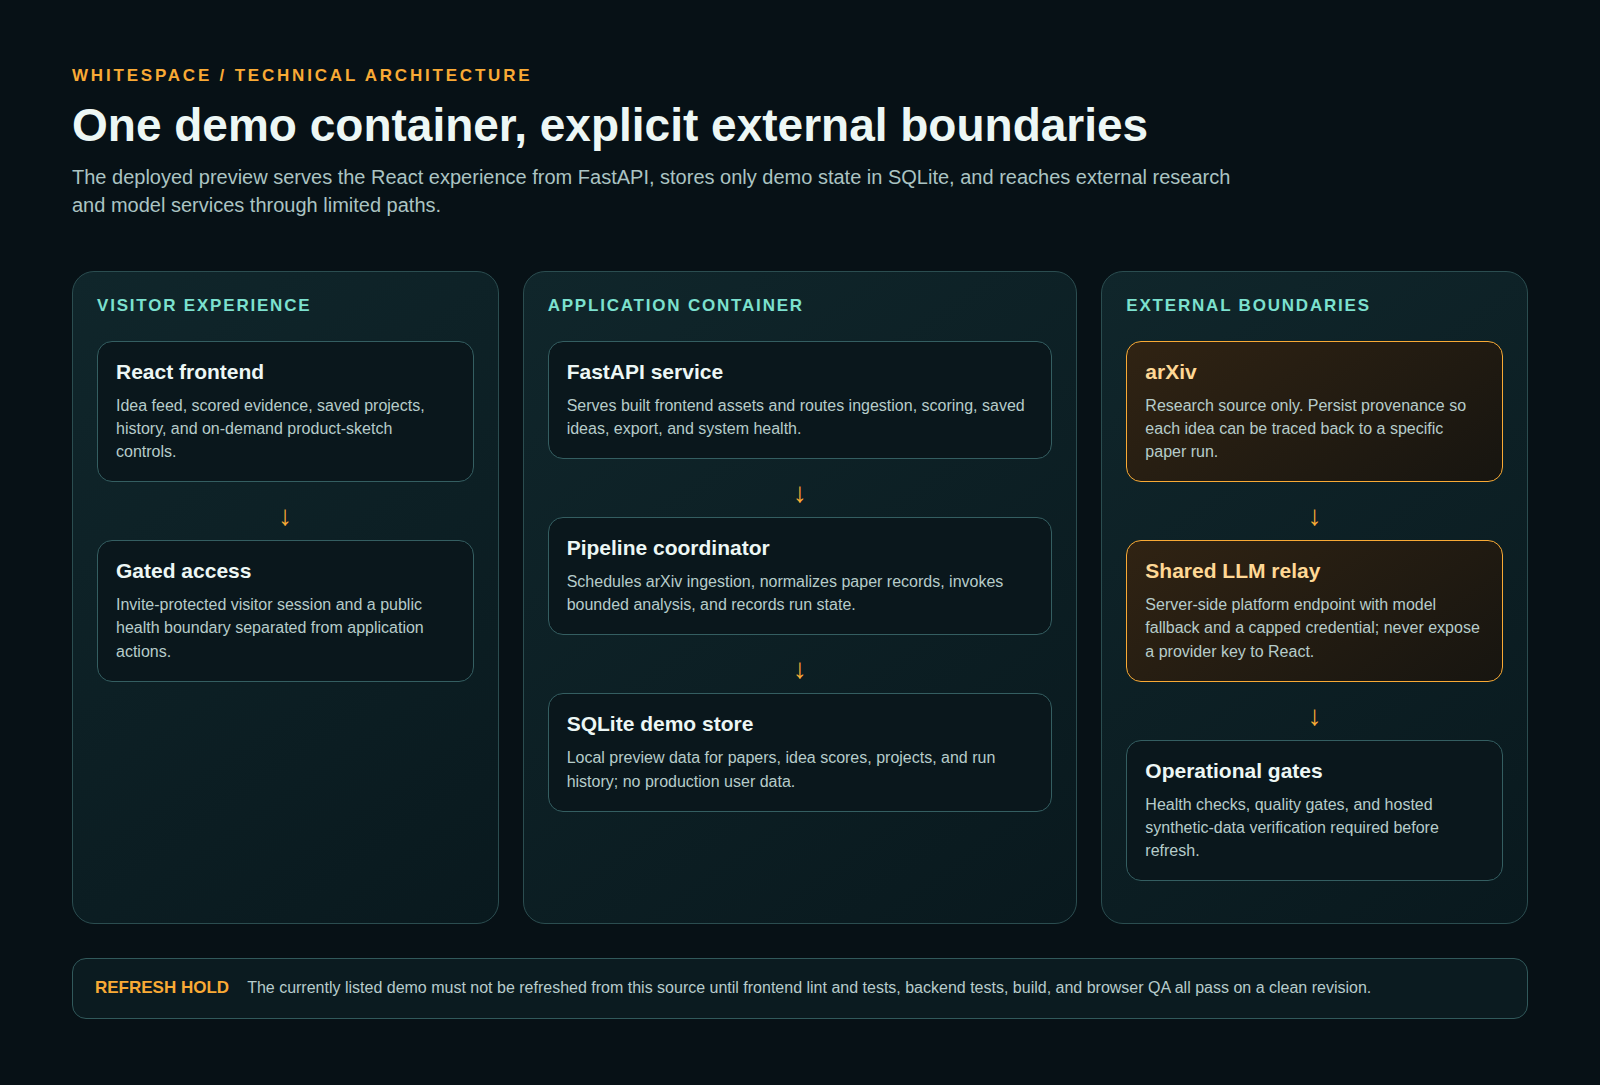
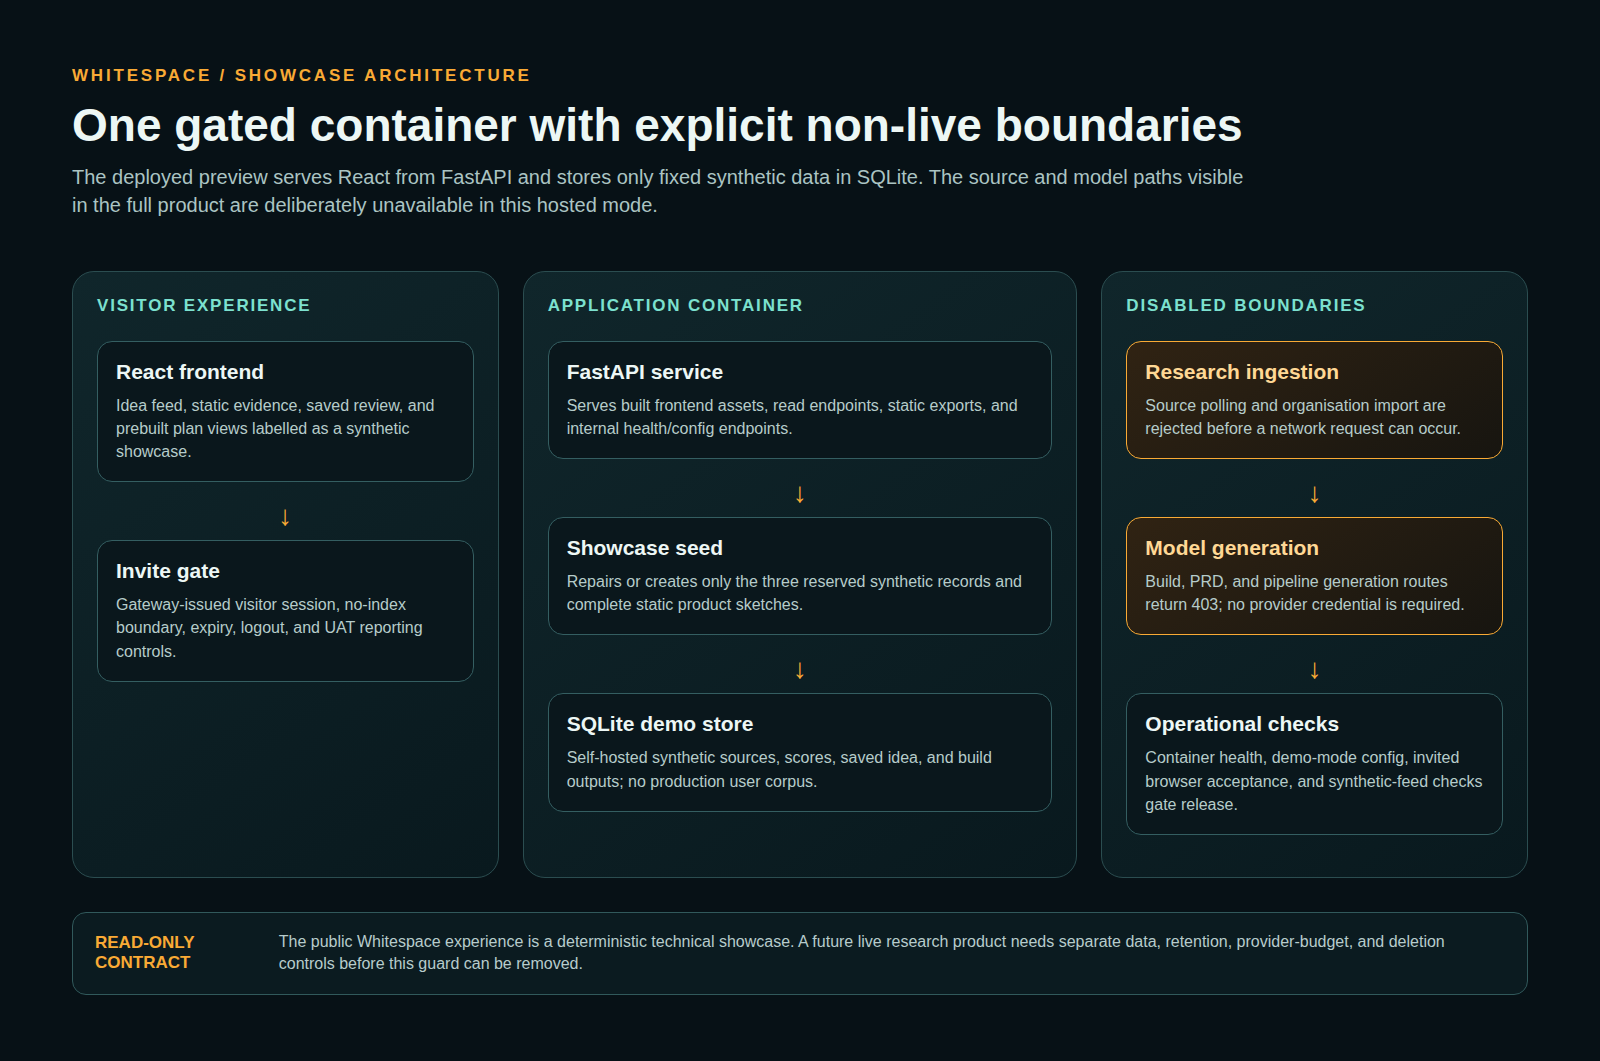
docs: align Whitespace page with showcase boundary

diff --git a/docs/project-page/whitespace-architecture-map.html b/docs/project-page/whitespace-architecture-map.html
@@ -1,1 +1,4 @@
-<!doctype html><html lang="en"><head><meta charset="utf-8"><title>Whitespace architecture</title><style>*{box-sizing:border-box}body{margin:0;width:1600px;min-height:1050px;background:#071116;color:#edf7f5;font-family:Inter,Arial,sans-serif}.canvas{padding:66px 72px}.eyebrow{font-size:17px;font-weight:800;color:#f9aa35;letter-spacing:2.8px}.title{font-size:46px;font-weight:800;margin:14px 0 12px;line-height:1.1}.intro{font-size:20px;color:#abc4c3;line-height:1.4;max-width:1190px}.layers{display:grid;grid-template-columns:1fr 1.3fr 1fr;gap:24px;margin-top:52px}.lane{border:1px solid #2b4d50;border-radius:22px;background:linear-gradient(145deg,#10262b,#09191e);padding:24px;min-height:590px}.lane h2{font-size:17px;letter-spacing:1.8px;color:#7ce1cf;margin:0 0 25px}.node{border:1px solid #345e61;background:#0a171c;border-radius:15px;padding:18px;margin-bottom:18px}.node strong{font-size:21px;display:block;margin-bottom:10px}.node p{margin:0;color:#b6ccca;font-size:16px;line-height:1.45}.accent{border-color:#f9aa35;background:linear-gradient(145deg,#302313,#171510)}.accent strong{color:#ffd895}.flow{color:#f9aa35;font-size:28px;text-align:center;margin:8px 0}.bar{display:flex;align-items:center;gap:18px;margin-top:34px;border:1px solid #31595b;border-radius:14px;padding:18px 22px;background:#0b1b20}.bar b{color:#f9aa35;font-size:17px}.bar p{margin:0;color:#b7cccc;font-size:16px;line-height:1.4}</style></head><body><main class="canvas"><div class="eyebrow">WHITESPACE / TECHNICAL ARCHITECTURE</div><div class="title">One demo container, explicit external boundaries</div><div class="intro">The deployed preview serves the React experience from FastAPI, stores only demo state in SQLite, and reaches external research and model services through limited paths.</div><section class="layers"><article class="lane"><h2>VISITOR EXPERIENCE</h2><div class="node"><strong>React frontend</strong><p>Idea feed, scored evidence, saved projects, history, and on-demand product-sketch controls.</p></div><div class="flow">↓</div><div class="node"><strong>Gated access</strong><p>Invite-protected visitor session and a public health boundary separated from application actions.</p></div></article><article class="lane"><h2>APPLICATION CONTAINER</h2><div class="node"><strong>FastAPI service</strong><p>Serves built frontend assets and routes ingestion, scoring, saved ideas, export, and system health.</p></div><div class="flow">↓</div><div class="node"><strong>Pipeline coordinator</strong><p>Schedules arXiv ingestion, normalizes paper records, invokes bounded analysis, and records run state.</p></div><div class="flow">↓</div><div class="node"><strong>SQLite demo store</strong><p>Local preview data for papers, idea scores, projects, and run history; no production user data.</p></div></article><article class="lane"><h2>EXTERNAL BOUNDARIES</h2><div class="node accent"><strong>arXiv</strong><p>Research source only. Persist provenance so each idea can be traced back to a specific paper run.</p></div><div class="flow">↓</div><div class="node accent"><strong>Shared LLM relay</strong><p>Server-side platform endpoint with model fallback and a capped credential; never expose a provider key to React.</p></div><div class="flow">↓</div><div class="node"><strong>Operational gates</strong><p>Health checks, quality gates, and hosted synthetic-data verification required before refresh.</p></div></article></section><div class="bar"><b>REFRESH HOLD</b><p>The currently listed demo must not be refreshed from this source until frontend lint and tests, backend tests, build, and browser QA all pass on a clean revision.</p></div></main></body></html>
+<!doctype html>
+<html lang="en"><head><meta charset="utf-8"><title>Whitespace showcase architecture</title><style>
+*{box-sizing:border-box}body{margin:0;width:1600px;min-height:1050px;background:#071116;color:#edf7f5;font-family:Inter,Arial,sans-serif}.canvas{padding:66px 72px}.eyebrow{font-size:17px;font-weight:800;color:#f9aa35;letter-spacing:2.8px}.title{font-size:46px;font-weight:800;margin:14px 0 12px;line-height:1.1}.intro{font-size:20px;color:#abc4c3;line-height:1.4;max-width:1190px}.layers{display:grid;grid-template-columns:1fr 1.3fr 1fr;gap:24px;margin-top:52px}.lane{border:1px solid #2b4d50;border-radius:22px;background:linear-gradient(145deg,#10262b,#09191e);padding:24px;min-height:590px}.lane h2{font-size:17px;letter-spacing:1.8px;color:#7ce1cf;margin:0 0 25px}.node{border:1px solid #345e61;background:#0a171c;border-radius:15px;padding:18px;margin-bottom:18px}.node strong{font-size:21px;display:block;margin-bottom:10px}.node p{margin:0;color:#b6ccca;font-size:16px;line-height:1.45}.accent{border-color:#f9aa35;background:linear-gradient(145deg,#302313,#171510)}.accent strong{color:#ffd895}.flow{color:#f9aa35;font-size:28px;text-align:center;margin:8px 0}.bar{display:flex;align-items:center;gap:18px;margin-top:34px;border:1px solid #31595b;border-radius:14px;padding:18px 22px;background:#0b1b20}.bar b{color:#f9aa35;font-size:17px}.bar p{margin:0;color:#b7cccc;font-size:16px;line-height:1.4}
+</style></head><body><main class="canvas"><div class="eyebrow">WHITESPACE / SHOWCASE ARCHITECTURE</div><div class="title">One gated container with explicit non-live boundaries</div><div class="intro">The deployed preview serves React from FastAPI and stores only fixed synthetic data in SQLite. The source and model paths visible in the full product are deliberately unavailable in this hosted mode.</div><section class="layers"><article class="lane"><h2>VISITOR EXPERIENCE</h2><div class="node"><strong>React frontend</strong><p>Idea feed, static evidence, saved review, and prebuilt plan views labelled as a synthetic showcase.</p></div><div class="flow">↓</div><div class="node"><strong>Invite gate</strong><p>Gateway-issued visitor session, no-index boundary, expiry, logout, and UAT reporting controls.</p></div></article><article class="lane"><h2>APPLICATION CONTAINER</h2><div class="node"><strong>FastAPI service</strong><p>Serves built frontend assets, read endpoints, static exports, and internal health/config endpoints.</p></div><div class="flow">↓</div><div class="node"><strong>Showcase seed</strong><p>Repairs or creates only the three reserved synthetic records and complete static product sketches.</p></div><div class="flow">↓</div><div class="node"><strong>SQLite demo store</strong><p>Self-hosted synthetic sources, scores, saved idea, and build outputs; no production user corpus.</p></div></article><article class="lane"><h2>DISABLED BOUNDARIES</h2><div class="node accent"><strong>Research ingestion</strong><p>Source polling and organisation import are rejected before a network request can occur.</p></div><div class="flow">↓</div><div class="node accent"><strong>Model generation</strong><p>Build, PRD, and pipeline generation routes return 403; no provider credential is required.</p></div><div class="flow">↓</div><div class="node"><strong>Operational checks</strong><p>Container health, demo-mode config, invited browser acceptance, and synthetic-feed checks gate release.</p></div></article></section><div class="bar"><b>READ-ONLY CONTRACT</b><p>The public Whitespace experience is a deterministic technical showcase. A future live research product needs separate data, retention, provider-budget, and deletion controls before this guard can be removed.</p></div></main></body></html>

diff --git a/docs/project-page/whitespace-workflow-map.html b/docs/project-page/whitespace-workflow-map.html
@@ -1,1 +1,4 @@
-<!doctype html><html lang="en"><head><meta charset="utf-8"><title>Whitespace workflow</title><style>*{box-sizing:border-box}body{margin:0;width:1600px;min-height:1050px;background:#071116;color:#ecf6f4;font-family:Inter,Arial,sans-serif}.canvas{padding:66px 72px}.eyebrow{color:#f9aa35;font-size:17px;font-weight:800;letter-spacing:2.8px}.title{font-size:46px;font-weight:800;line-height:1.1;margin:14px 0 12px}.intro{font-size:20px;line-height:1.4;color:#aac2c1;max-width:1200px}.flow{display:flex;align-items:stretch;gap:14px;margin-top:58px}.card{width:272px;min-height:420px;border:1px solid #28484b;border-radius:20px;padding:25px 22px;background:linear-gradient(145deg,#10262b,#0a191e);box-shadow:0 18px 34px #0008}.index{font-size:14px;font-weight:800;color:#7ce1cf;letter-spacing:1.5px}.card h2{font-size:25px;line-height:1.1;margin:20px 0 16px}.card p{font-size:17px;line-height:1.45;color:#afc5c4;margin:0}.tag{display:inline-block;margin-top:23px;padding:8px 11px;border:1px solid #336266;border-radius:8px;color:#cde7e4;font-size:14px;font-weight:700;background:#0a181d}.arrow{font-size:31px;color:#f9aa35;align-self:center}.boundary{border-color:#f9aa35;background:linear-gradient(145deg,#302313,#151611)}.boundary .index{color:#f9aa35}.footer{margin-top:48px;border-top:1px solid #28484b;padding-top:22px;display:flex;gap:34px;font-size:16px;color:#a9c4c2}.footer b{color:#f9aa35}</style></head><body><main class="canvas"><div class="eyebrow">WHITESPACE / TECHNICAL WORKFLOW</div><div class="title">Research papers become traceable product hypotheses</div><div class="intro">The scheduled pipeline makes its source, model boundary, score, and generated product sketch visible so an operator can decide what to keep.</div><section class="flow"><article class="card"><div class="index">01 · INGEST</div><h2>Fetch papers</h2><p>Poll arXiv using organisation and category filters. Record the run and source metadata.</p><span class="tag">schedule + filters</span></article><div class="arrow">→</div><article class="card"><div class="index">02 · NORMALISE</div><h2>Prepare evidence</h2><p>Extract the paper text and metadata into a bounded analysis input with provenance.</p><span class="tag">paper record</span></article><div class="arrow">→</div><article class="card boundary"><div class="index">03 · ANALYSE</div><h2>Use the shared relay</h2><p>Ask the LLM for gaps and applications through a capped platform relay, not a browser key.</p><span class="tag">bounded model call</span></article><div class="arrow">→</div><article class="card"><div class="index">04 · SCORE</div><h2>Rank each idea</h2><p>Attach novelty and feasibility scores with the evidence used to produce the assessment.</p><span class="tag">explained scores</span></article><div class="arrow">→</div><article class="card"><div class="index">05 · REVIEW</div><h2>Save or sketch</h2><p>Review the candidate, save it, and generate a product sketch only when requested.</p><span class="tag">operator decision</span></article></section><div class="footer"><span><b>Source:</b> arXiv run provenance</span><span><b>Model boundary:</b> shared relay with spend control</span><span><b>Demo rule:</b> synthetic saved ideas only</span></div></main></body></html>
+<!doctype html>
+<html lang="en"><head><meta charset="utf-8"><title>Whitespace showcase workflow</title><style>
+*{box-sizing:border-box}body{margin:0;width:1600px;min-height:1050px;background:#071116;color:#ecf6f4;font-family:Inter,Arial,sans-serif}.canvas{padding:66px 72px}.eyebrow{color:#f9aa35;font-size:17px;font-weight:800;letter-spacing:2.8px}.title{font-size:46px;font-weight:800;line-height:1.1;margin:14px 0 12px}.intro{font-size:20px;line-height:1.4;color:#aac2c1;max-width:1200px}.flow{display:flex;align-items:stretch;gap:14px;margin-top:58px}.card{width:272px;min-height:420px;border:1px solid #28484b;border-radius:20px;padding:25px 22px;background:linear-gradient(145deg,#10262b,#0a191e);box-shadow:0 18px 34px #0008}.index{font-size:14px;font-weight:800;color:#7ce1cf;letter-spacing:1.5px}.card h2{font-size:25px;line-height:1.1;margin:20px 0 16px}.card p{font-size:17px;line-height:1.45;color:#afc5c4;margin:0}.tag{display:inline-block;margin-top:23px;padding:8px 11px;border:1px solid #336266;border-radius:8px;color:#cde7e4;font-size:14px;font-weight:700;background:#0a181d}.arrow{font-size:31px;color:#f9aa35;align-self:center}.boundary{border-color:#f9aa35;background:linear-gradient(145deg,#302313,#151611)}.boundary .index{color:#f9aa35}.footer{margin-top:48px;border-top:1px solid #28484b;padding-top:22px;display:flex;gap:34px;font-size:16px;color:#a9c4c2}.footer b{color:#f9aa35}
+</style></head><body><main class="canvas"><div class="eyebrow">WHITESPACE / SHOWCASE WORKFLOW</div><div class="title">Synthetic evidence becomes a reviewable product hypothesis</div><div class="intro">The hosted preview reads fixed, labelled records from SQLite. It demonstrates the review and plan surfaces without polling research sources, calling a model, or generating new customer data.</div><section class="flow"><article class="card"><div class="index">01 · SEED</div><h2>Load static records</h2><p>Startup inserts two synthetic source records and three labelled ideas only when the showcase database is empty.</p><span class="tag">idempotent seed</span></article><div class="arrow">→</div><article class="card"><div class="index">02 · REVIEW</div><h2>Inspect evidence</h2><p>Visitors read the synthetic source references, novelty and feasibility scores, and review context.</p><span class="tag">no live source</span></article><div class="arrow">→</div><article class="card"><div class="index">03 · OPEN</div><h2>Read a static plan</h2><p>Each idea has a complete prebuilt product sketch, PRD, and technical-plan record; no generation starts on visit.</p><span class="tag">prebuilt output</span></article><div class="arrow">→</div><article class="card"><div class="index">04 · EXPORT</div><h2>Use review outputs</h2><p>Read-only plan and export routes consume the same static record, preserving a repeatable demonstration.</p><span class="tag">deterministic view</span></article><div class="arrow">→</div><article class="card boundary"><div class="index">05 · ENFORCE</div><h2>Block live work</h2><p>Ingestion, model analysis, and pipeline routes reject before an external request can be made.</p><span class="tag">403 guard</span></article></section><div class="footer"><span><b>Dataset:</b> two synthetic sources</span><span><b>Runtime:</b> SQLite + static records</span><span><b>Boundary:</b> invite-gated, no live pipeline</span></div></main></body></html>
